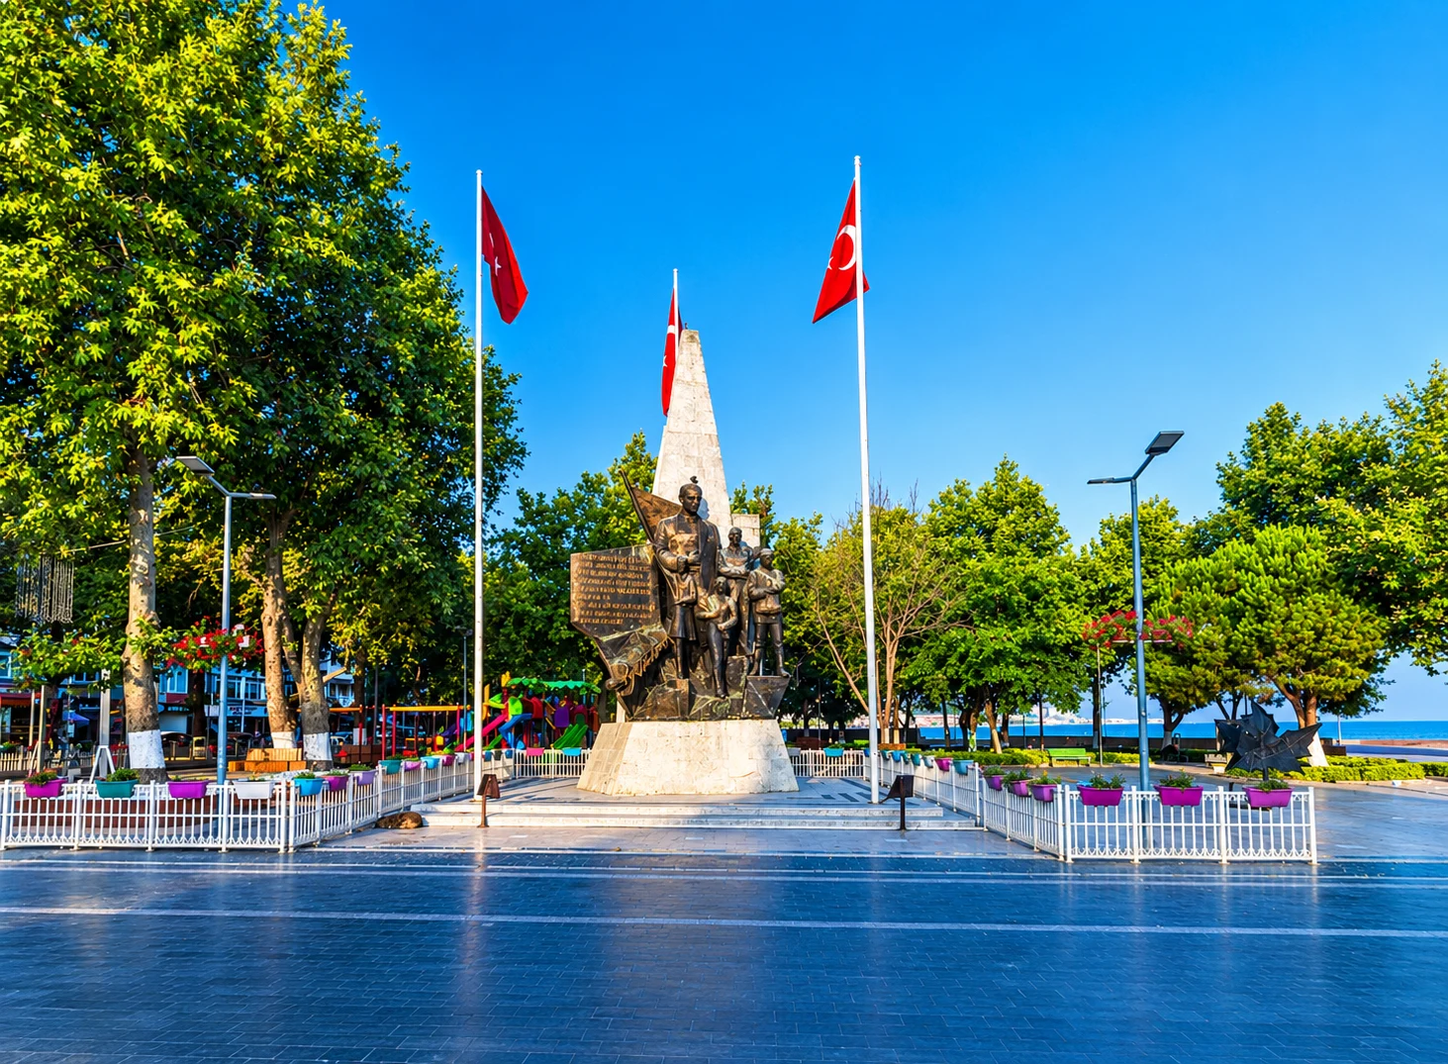
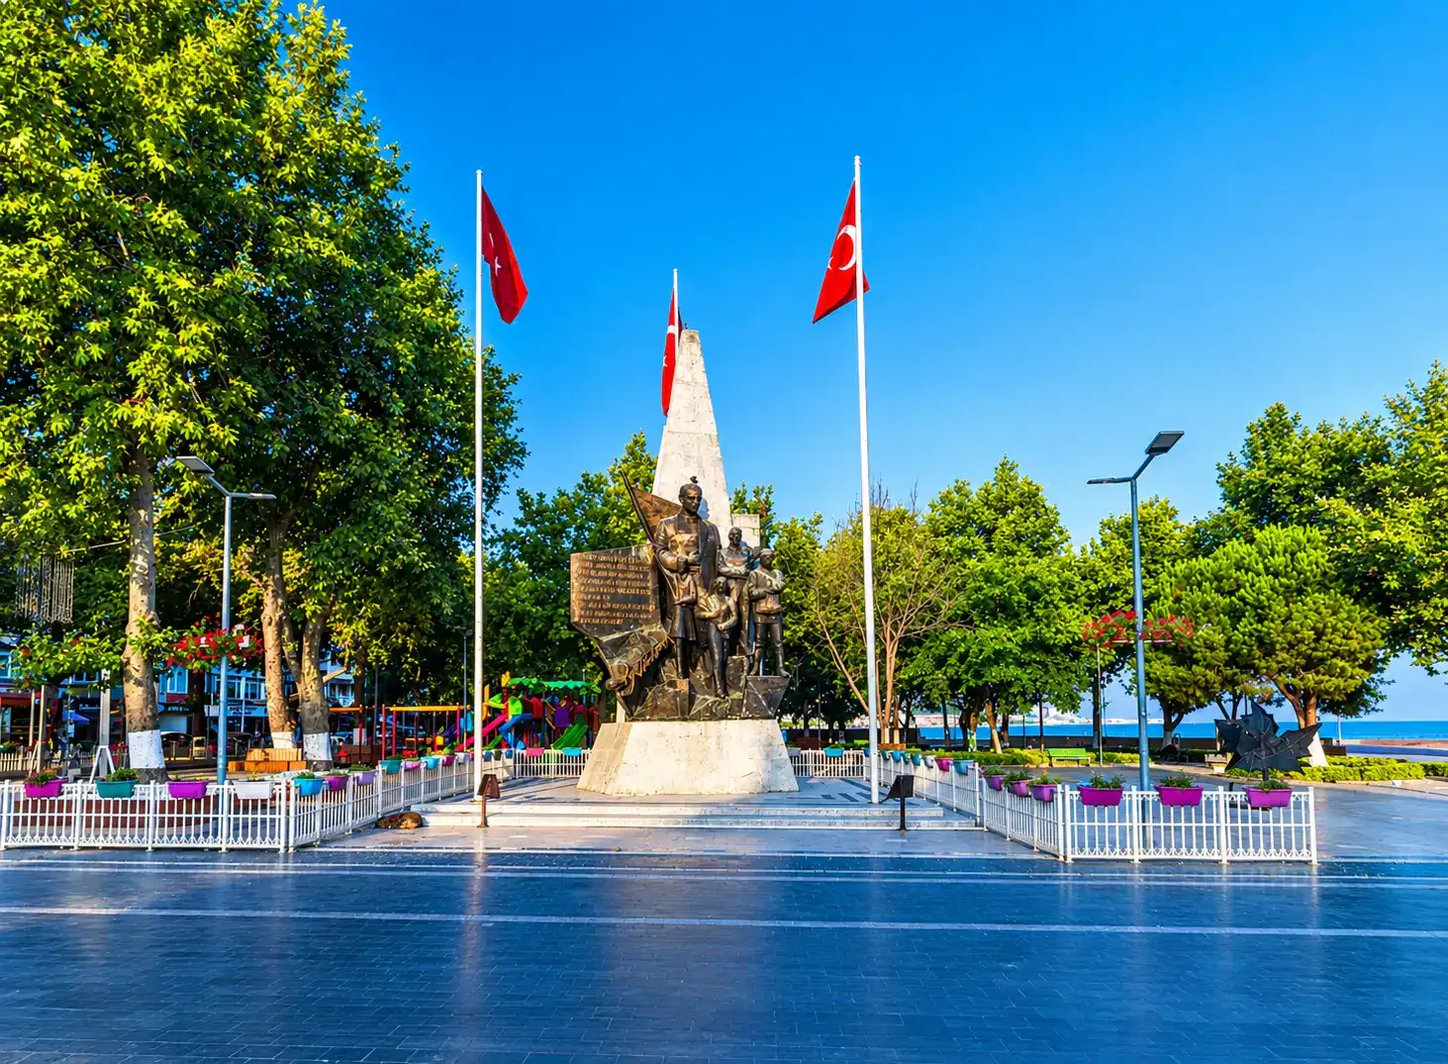
Perf optimizasyonu + Google OAuth callback fix + hero metin duzeltmesi
- Hero gorselleri sikistirildi (images/cinar/1-5.webp, ~1.4MB -> ~666KB)

- Upload'a sharp pipeline: max 1600px, WebP q70 (optimizeUploadedImages)

- Font tekillestirme: 9 view'dan @import kaldirildi, layout Inter(400-900)+Poppins tek kaynak

- LCP preload: hero 1. slayt + manset gorseli head'de preload (preloadImages)

- Lazy loading: 11 view'da loading=lazy; manset/hero/detay ana gorselleri eager

- Encoding bozulmasi onarildi (PS ANSI okuma -> 5 view git checkout + edit ile yeniden uygulandi, byte dogrulamasi)

- Google OAuth: redirect_uri artik istek host'undan dinamik (canlida localhost'a dusme fix); token exchange ayni kaynak

- i18n: heroSlide2Sub Meydaninizda -> Meydanimizda (TR)

- AGENTS guncel (bekleyen deploy + OAuth notu); GBP_LOCATION_ID .env'e eklendi (gitignore'lu)

diff --git a/server.js b/server.js
@@ -504,6 +504,10 @@ app.get('/', async (req, res) => {
   res.render('home', {
     announcements, places, companies, pharmacies, sightseeing, ferryGroups: buildFerryGroups(ferryRows),
     headlines, regularNews, weekEvents, sea,
+    // LCP: hero 1. slayt + manşet ilk görseli <head>'de preload edilir (layout.ejs)
+    preloadImages: ['/images/cinar/1.webp'].concat(
+      headlines[0] && headlines[0].main_image_url && String(headlines[0].main_image_url).indexOf('/uploads/') === 0
+        ? [res.locals.img(headlines[0].main_image_url)] : []),
     pageTitle: 'Çınarcık Haber, Mekan ve Gezi Rehberi | ' + i18n.t(req.lang, 'heroTagline'),
     metaDescription: i18n.t(req.lang, 'metaDesc'),
     pageSchema: {
@@ -1706,11 +1710,53 @@ function finishUploads(req, res, done) {
   });
 }
 
+// Yüklenen fotoğrafları R2'ye gitmeden önce küçültür: max 1600px + WebP q70.
+// Orijinal (telefon) fotoğraflar 2-8 MB olabiliyordu — LCP ve bandwidth için en
+// büyük kazanç bu. Hata olursa dosya olduğu gibi yüklenir (akış bozulmaz).
+async function optimizeUploadedImages(req) {
+  const files = [];
+  if (req.file) files.push(req.file);
+  if (req.files) {
+    if (Array.isArray(req.files)) files.push.apply(files, req.files);
+    else Object.keys(req.files).forEach(function(k) {
+      const v = req.files[k];
+      if (Array.isArray(v)) files.push.apply(files, v);
+    });
+  }
+  const fsp = require('fs');
+  const sharp = require('sharp');
+  await Promise.all(files.map(async function(file) {
+    if (!file || !file.path || !/^image\/(jpeg|png|webp)$/.test(file.mimetype || '')) return;
+    try {
+      const before = fsp.statSync(file.path).size;
+      const out = await sharp(file.path)
+        .resize({ width: 1600, withoutEnlargement: true })
+        .webp({ quality: 70, smartSubsample: true })
+        .toBuffer();
+      if (out.length >= before) return; // küçülmediyse dokunma
+      const newPath = file.path.replace(/\.[A-Za-z0-9]+$/, '') + '.webp';
+      fsp.writeFileSync(newPath, out);
+      if (newPath !== file.path) { try { fsp.unlinkSync(file.path); } catch (e) {} }
+      file.path = newPath;
+      file.filename = require('path').basename(newPath);
+      file.mimetype = 'image/webp';
+      console.log('[img] optimize:', file.filename, Math.round(before / 1024) + 'KB -> ' + Math.round(out.length / 1024) + 'KB');
+    } catch (e) {
+      console.warn('[img] optimize atlandi (' + file.filename + '):', e.message);
+    }
+  }));
+}
+
 function withUpload(mw) {
   return function(req, res, next) {
     mw(req, res, function(err) {
       if (err) return next(err);
-      finishUploads(req, res, next);
+      optimizeUploadedImages(req).then(function() {
+        finishUploads(req, res, next);
+      }).catch(function(e) {
+        console.warn('[img] optimize hata:', e.message);
+        finishUploads(req, res, next);
+      });
     });
   };
 }
@@ -2361,7 +2407,24 @@ app.post('/admin/firmalar/:id/goruntulenme-sifirla', isAuthenticated, (req, res)
 
 const GOOGLE_CLIENT_ID = process.env.GOOGLE_CLIENT_ID;
 const GOOGLE_CLIENT_SECRET = process.env.GOOGLE_CLIENT_SECRET;
-const GOOGLE_CALLBACK_URL = process.env.GOOGLE_CALLBACK_URL || 'http://localhost:3000/auth/google/callback';
+
+// redirect_uri istek host'undan dinamik üretilir: istek localhost'a gelirse
+// http://localhost:3000, canlı domain'e gelirse SITE_URL (veya localhost OLMAYAN
+// GOOGLE_CALLBACK_URL env override'ı) kullanılır.
+// DİKKAT: Google Cloud Console → Authorized redirect URIs içinde şunlar ekli OLMALI:
+//   http://localhost:3000/auth/google/callback   (lokal test)
+//   https://marmaraninincisi.com/auth/google/callback  (canlı)
+// Eski hata: .env'deki GOOGLE_CALLBACK_URL=localhost'a sabitti → canlıda Google
+// girişi yapan herkes localhost:3000'e düşüyordu (ERR_CONNECTION_REFUSED).
+function googleRedirectUri(req) {
+  const host = String((req.get('host') || '')).toLowerCase().split(':')[0];
+  if (host === 'localhost' || host === '127.0.0.1') {
+    return 'http://localhost:3000/auth/google/callback';
+  }
+  const envCb = process.env.GOOGLE_CALLBACK_URL;
+  if (envCb && !envCb.includes('localhost')) return envCb.replace(/\/+$/, '');
+  return (process.env.SITE_URL || 'https://marmaraninincisi.com').replace(/\/+$/, '') + '/auth/google/callback';
+}
 
 // Env değişken kontrolü
 if (!GOOGLE_CLIENT_ID || GOOGLE_CLIENT_ID === 'YOUR_GOOGLE_CLIENT_ID.apps.googleusercontent.com') {
@@ -2375,24 +2438,13 @@ if (!GOOGLE_CLIENT_SECRET || GOOGLE_CLIENT_SECRET === 'YOUR_GOOGLE_CLIENT_SECRET
 } else {
   console.log('\x1b[32m✓ GOOGLE_CLIENT_SECRET yüklendi.\x1b[0m');
 }
-console.log('\x1b[36m→ GOOGLE_CALLBACK_URL:\x1b[0m', GOOGLE_CALLBACK_URL);
+console.log('\x1b[36m→ Google callback (dinamik):\x1b[0m');
+console.log('   lokal : http://localhost:3000/auth/google/callback');
+console.log('   canlı : ' + (process.env.GOOGLE_CALLBACK_URL && !process.env.GOOGLE_CALLBACK_URL.includes('localhost')
+  ? process.env.GOOGLE_CALLBACK_URL
+  : (process.env.SITE_URL || 'https://marmaraninincisi.com').replace(/\/+$/, '') + '/auth/google/callback'));
 
-// Alan adı uyuşmazlığı koruması: callback URL, SITE_URL alan adıyla aynı olmalı.
-// Farklıysa Google girişi sonrası kullanıcı geçersiz/eksik SSL'li domain'e
-// yönlendirilir → tarayıcı "This connection is not private" uyarısı gösterir.
-(function validateCallbackHost() {
-  try {
-    const siteHost = new URL(process.env.SITE_URL || 'https://marmaraninincisi.com').host;
-    const cbHost = new URL(GOOGLE_CALLBACK_URL).host;
-    if (cbHost !== siteHost && cbHost !== 'localhost:3000' && cbHost !== 'localhost') {
-      console.warn('\x1b[31m✗ GOOGLE_CALLBACK_URL alan adı SITE_URL ile uyuşmuyor!\x1b[0m');
-      console.warn('   SITE_URL host:    ' + siteHost);
-      console.warn('   CALLBACK host:    ' + cbHost);
-      console.warn('   → Google girişi "This connection is not private" hatası verir.');
-      console.warn('   → Render env: GOOGLE_CALLBACK_URL=https://' + siteHost + '/auth/google/callback');
-    }
-  } catch (e) { /* geçersiz URL — üstteki log yeterli */ }
-})();
+// (Eski statik callback-host doğrulaması kaldırıldı — redirect_uri artık isteğe göre dinamik.)
 
 // Auth config endpoint
 app.get('/api/auth/config', (req, res) => {
@@ -2420,7 +2472,7 @@ app.get('/auth/google', (req, res) => {
   if (returnTo) req.session.returnTo = returnTo;
   const params = new URLSearchParams({
     client_id: GOOGLE_CLIENT_ID,
-    redirect_uri: GOOGLE_CALLBACK_URL,
+    redirect_uri: googleRedirectUri(req),
     response_type: 'code',
     scope: 'openid email profile',
     access_type: 'offline',
@@ -2450,7 +2502,7 @@ app.get('/auth/google/callback', async (req, res) => {
         code,
         client_id: GOOGLE_CLIENT_ID,
         client_secret: GOOGLE_CLIENT_SECRET,
-        redirect_uri: GOOGLE_CALLBACK_URL,
+        redirect_uri: googleRedirectUri(req),
         grant_type: 'authorization_code'
       })
     });
@@ -2459,7 +2511,7 @@ app.get('/auth/google/callback', async (req, res) => {
     
     if (tokenData.error) {
       console.error('Token hatası:', tokenData.error, tokenData.error_description);
-      console.error('Gönderilen parametreler: client_id=' + GOOGLE_CLIENT_ID.substring(0, 15) + '..., redirect_uri=' + GOOGLE_CALLBACK_URL);
+      console.error('Gönderilen parametreler: client_id=' + GOOGLE_CLIENT_ID.substring(0, 15) + '..., redirect_uri=' + googleRedirectUri(req));
       return res.redirect('/auth/error?type=' + encodeURIComponent(tokenData.error) + '&desc=' + encodeURIComponent(tokenData.error_description || ''));
     }
     

diff --git a/i18n.js b/i18n.js
@@ -17,7 +17,7 @@ const translations = {
     forecastReal: 'gerçek tahmin', forecastHist: 'tarihsel ortalama',
     heroTagline: "Marmara'nın Huzurlu Kıyısı",
     heroSlide1Title: 'Kuşbakışı Çınarcık', heroSlide1Sub: "Marmara'nın mavisiyle buluşan sahil kasabası",
-    heroSlide2Title: 'Cumhuriyet Meydanı', heroSlide2Sub: 'Meydanınızda Atatürk Anıtımız',
+    heroSlide2Title: 'Cumhuriyet Meydanı', heroSlide2Sub: 'Meydanımızda Atatürk Anıtımız',
     heroSlide3Title: "Marmara'nın İncisi", heroSlide3Sub: 'Sahil meydanı ve simge yapılar',
     heroSlide4Title: 'Sahil Boyunca', heroSlide4Sub: 'Sakin deniz, yeşil tepeler ve huzur',
     heroSlide5Title: 'Çınarcık Feneri', heroSlide5Sub: 'Sahilin simgesi şirin fener',

diff --git a/AGENTS.md b/AGENTS.md
@@ -9,10 +9,10 @@
 - İletişim dili: Türkçe. commit/push sadece kullanıcı açıkça isteyince; commit mesajları ASCII.
 - Görsel deposu: Cloudflare R2 aktif (`uploads/` key'leri; local mirror yükleme sonrası silinir). DB'de URL'ler hep göreli: `/uploads/x` (R2) veya `/img/uploads/x` (lokal fallback). `/uploads/*` yanıt başlığı `Cache-Control: public, max-age=31536000, immutable` → **Cloudflare edge cache MISS→HIT doğrulandı** (görseller origin'e gelmiyor).
 
-## Bekleyen deploy — YÜKLENMEDİ (zip hazır) — yükleme yapınca bu bölümü SİL
-- **Durum (20 Eki):** commit/push tamam, henüz cPanel'e yüklenmedi. Kullanıcı "en son yapılacaklar bitince toplu upload" diyor.
-- **Zip:** `%TEMP%\opencode\cinarcik-deploy.zip` (12.36 MB; `52ed83b` itibarıyla güncel, package.json değişmedi → NPM Install yok). Yeni iş girerse yeniden üret.
-- **İçerik:** `dd6395e` Ctrl+K arama + favoriler (Kaydettiklerim) + scroll-reveal · `7b70d82` docs · `b61f895` arama panelinde Kaydettiklerim satırlarına ✕ kaldır butonu · `52ed83b` ilan/duyuru kart görselleri `object-cover`.
+## Bekleyen deploy — YÜKLENMEDİ — yükleme yapınca bu bölümü SİL
+- **Durum (20 Eki akşam):** yeni commit push edildi, henüz cPanel'e yüklenmedi. Kullanıcı "en son yapılacaklar bitince toplu upload" diyor.
+- **Zip:** bu commit'ten sonra `powershell -ExecutionPolicy Bypass -File scripts\prepare-deploy.ps1` ile yeniden üret (`%TEMP%\opencode\cinarcik-deploy.zip`); package.json değişmedi → NPM Install yok. Yükleme sonrası **STOP→START** (Restart yetmiyor) + CF Purge.
+- **İçerik:** `dd6395e` Ctrl+K arama + favoriler (Kaydettiklerim) + scroll-reveal · `7b70d82` docs · `b61f895` arama panelinde ✕ kaldır butonu · `52ed83b` ilan/duyuru kart görselleri `object-cover` · `a997158` pending-deploy notu + prepare-deploy.ps1 · **(bu commit)** performans optimizasyonu (hero sıkıştırma ~1.4→~0.66 MB, sharp upload pipeline, font tekilleştirme + @import temizliği, LCP preload, lazy loading) + encoding bozulması onarımı + Google OAuth dinamik callback fix + hero metin "Meydanımızda" + `.env`'e `GBP_LOCATION_ID` (gitignore'lu).
 - **Hazırlık tek komut:** `powershell -ExecutionPolicy Bypass -File scripts\prepare-deploy.ps1` (lint + node --check + zip; hata olursa zip üretilmez). Yükleme adımları §Genel'de.
 
 ## Kritik konvansiyonlar
@@ -26,6 +26,7 @@
 - `sightseeing`/`announcements` tablolarında `updated_at` YOK — SQL'lerinde kullanma.
 
 ## Tamamlananlar (özet — detay git log'da)
+- **20 Eki (Google OAuth callback fix):** kök neden — `.env`'deki `GOOGLE_CALLBACK_URL` `localhost:3000`'e sabitti; 16 Eki Spaceship taşınmasında aynı `.env` sunucuya gittiği için **canlıda Google girişi yapan herkes localhost'a düşüyordu** (ERR_CONNECTION_REFUSED). Çözüm: `server.js` `googleRedirectUri(req)` — istek host'u localhost/127.0.0.1 ise `http://localhost:3000/...`, aksi halde localhost OLMAYAN env override ya da `SITE_URL` + `/auth/google/callback`; token exchange de aynı fonksiyonu kullanır; eski statik host-doğrulama IIFE kaldırıldı. Lokal doğrulama: `/auth/google` 302 — localhost isteğinde `redirect_uri=http://localhost:3000/...`, `Host: marmaraninincisi.com` isteğinde `https://marmaraninincisi.com/auth/google/callback` ✓. **Kullanıcı görevi:** Google Cloud Console → OAuth Client → Authorized redirect URIs'a `https://marmaraninincisi.com/auth/google/callback` eklenmeli (yoksa `redirect_uri_mismatch`); lokal URI zaten kayıtlı. Lokal testte sunucu 3000'de açık olmalı (`node server.js`; PORT=3199 değil).
 - **20 Eki (arama + favoriler + mikro-animasyon, `dd6395e`):** (1) **Ctrl+K hızlı arama paneli** — `/api/search` (5 tablo: news/places/announcements/sightseeing/companies; `status='active'`, LIKE ESCAPE, tablo başına 4-3 sonuç, toplam 15; slug-aware URL), layout'ta modal (debounce 200ms, istemci cache 40 sorgu, ↑↓/Enter/ESC, boş sorguda favorileri öneri olarak listeler, favori sonuçlar başa ★ rozetiyle alınır), header'da 🔍 butonu; light modda da koyu panel (hava modalıyla aynı). (2) **Favoriler / Kaydettiklerim** — localStorage `cinarcik_favs_v1` (100 kayıt capi, giriş YOK); 5 detay sayfasında ♡ Kaydet butonu (`data-fav` delegation + `favs:changed` event); header ★ butonu (ilk kayıttan sonra görünür, adet rozeti); `/kaydettiklerim` (noindex, sitemap'te yok) + footer linki; `window.Favs` API (list/has/toggle/remove). (3) **Scroll-reveal mikro-animasyon** — `main .grid` çocukları IntersectionObserver ile (hero/slides hariç, `no-reveal` skip, reduced-motion skip, 3 sn safety-net; JS/reduced-motion'da içerik görünür); header butonlarında `:active` scale(0.96); fav kalp `fav-pop` animasyonu. Ek: 4 dilde i18n (search*/fav*), `npm run build:css` ile tailwind rebuild (z-[110], max-h-[60vh] vb.), mekan detayda öne çıkan rozet 🏆→⭐. Lokal uçtan uca test: API/rotalar/fav butonları/header sığdırma (desktop+mobil screenshot) ✓; `db/cinarcik.db` test artığıydı, commit öncesi HEAD'e döndürüldü.
 - **19 Eki (menü + harita pin/cid, hepsi canlıda):** (1) **Üst menü sığdırma** (`3ec0aa1`) — header+ticker `max-w-7xl`→`max-w-[90rem]`, linkler `px-2.5 xl:px-3 text-[13px] xl:text-sm whitespace-nowrap`, emoji'ler `xl:inline`, hamburger `md:hidden`→`lg:hidden` + mobil menü medya sorguları `1023.98px`; `npm run build:css` şart (Tailwind CLI). (2) **Tüm haritalar tek forma** (`db0176b`,`33449f1`,`86e80f6`,`cee1a76`) — iletişim/mechan/gezilecek yer/firma detayları Google keyless embed + altlarında "Google Haritada Aç →" bağlantısı; OSM embed tamamen kalktı, `buildMapEmbedUrl(coords)` tek kaynak; gezilecek yer detayına Harita kartı eklendi. (3) **Pin/cid düzeltmeleri** (`3478ac4`,`451c051`,`967bf47`) — kök nedenler: (a) `extractMapCoords` `@lat,lng` (görünüm merkezi) `!3d..!4d` (tam pin) yerine öncelikli okuyordu → sıralama değişti; (b) `?q=lat,lng&output=embed` Google'ın güncel sürümünde **pin basmıyor** (firma sayfasında kullanıcı raporu) → **yer kayıtlı** her şey için `?cid=<ondalık>&output=embed` (`extractPlaceCid` — place URL/pb'deki `!1s0x..:0x..` → BigInt ondalık; etiketli pin basar), **dropped pin** (koordinat linkleri, yer key'i yok) için klasik `maps.google.com/maps?q=..&hl=tr&z=17&output=embed`; firma rotası önce `map_link`'ten çözüyor, pb sadece fallback; yol tarifi `cid:` destination. İletişim kendi işletmemizin cid'sine (`14140722854821185587`) geçti. (4) **Veri fix** — 3 mekanın `map_link`'i kullanıcının verdiği gerçek yer linkleriyle güncellendi (`db.run`+`flushSync` script yolu, sunucu kapalıyken — aksi halde sunucunun saveDb'si ezer): Liman Restoran cid `16612906186740951125`, Butterfly cid `1532752234693097114` (eski linkleri zaten aynı yerdi), Ulaş Büfe Google'da kayıtlı değil (dropped pin, klasik embed). Lokal `db/cinarcik.db` M — bu veri fix'inin izi, gerekirse commit et. Zip (`scripts/deploy-spaceship.ps1`, 12.42 MB, package.json değişmedi → NPM Install yok) kullanıcıca Upload+Extract → STOP→START → CF Purge Everything ile canlıya alındı; **canlıda doğrulandı**: 6 sayfada embed'ler doğru, `/server.js`+`/db/cinarcik.db` 404, yeni style.css (menu kuralları) CF'te HIT, header/ticker `max-w-[90rem]` + `lg:hidden` HTML'de. **Not:** headless Edge Google Maps'i çizmiyor → pin doğrulaması gerçek tarayıcıda yapılır; `cid` embed HTML'i place adını içerir (statik doğrulama için yeterli).
 - **18 Eki (akşam — admin + görsel + OTP):** (1) **"Diğer Haberler" public'ten admin'e taşındı** — `/haberler` kategori butonu + trending section + filtre branch + sayfanın `/api/trending-news` fetch'i, `/haber/:slug` "recent" bölümü silindi; admin dashboard'a 🌐 "Diğer Haberler" sekmesi (lazy fetch + 🔄 Yenile); `/api/trending-news` herkese açık kaldı. `4751768`. (2) **`/img/uploads/*` 404 fix** — kök neden: deploy script'i `public/img/uploads`'ı zip'ten siliyor + sunucuda bu yolu çeken route yok; DB'deki eski kayıtlar (mekan/duyuru/sightseeing) `/img/uploads/*` tutuyor, dosyalar R2'de `uploads/` altında. Çözüm: `/img/uploads/:file` rotası (`serveUploadByName` — R2 → local fallback, `/uploads/:file` ile ortak). `34c768c` — canlıda görseller doğrulandı. (3) **Admin OTP 500 fix** — `FileSessionStore` (95cf9fe) express-session base `Store`'ından türememişti → `createSession`/`regenerate` metotları yok → OTP POST'unda TypeError → 500 "Internal Server Error". `Store`'dan türetildi (`6fb09ff`); lokalde tam OTP akışı test edildi (302 → `/admin?msg=...` + `admin_rt` cookie). (4) **Duyuru yayında/gizli toggle** — İşlemler sütununda ⛔/▶ butonu (`POST /admin/duyurular/toggle/:id`, flash `/admin?tab=announcements`), Durum rozetleri `🟢 Aktif`/`🔴 Pasif`/`⏳ Onay Bekliyor`; pending satırlarda toggle yok (önce onay/red). `590ae2c` — lokal uçtan uca test + canlıda kullanıcı doğrulaması ✓. Hepsi bugün 3 zip ile deploy edildi (kullanıcı: Upload+Extract → STOP→START). **Test yordamı (admin rotaları):** en kolay yol `admin_rt` remember-token sahtelemek (HMAC-SHA256, session store'a dokunmaz, `isAuthenticated`'ın regenerate yolunu da test eder); `data/sessions.json` sahtesi gerekiyorsa sunucu **açılmadan** yazılmalı (store dosyayı construct'te yükler); `PORT=3199` shell'e export edilmeli; PowerShell `node -e` içinde `$`/backtick kaçışları bozuyor → geçici `.js` dosyası yazıp çalıştırmak daha güvenli.
@@ -58,7 +59,7 @@
 6. ~~Opsiyonel: R2 orphan süpürme~~ ✅ 14 Eki'de elle yapıldı (script commit edilmedi, gerekirse yeniden yazılır); `content_translations` hash-cache süpürmesi hâlâ opsiyonel.
 7. Render artık kullanılmıyor (16 Eki taşınma sonrası). SMTP portlarıyla ilgili eski Render kısıtı artık geçersiz; Spaceship'te SMTP açık olsa da kodda Brevo HTTP API öncelikli — olduğu gibi kalsın. Lokal eski kodlu instance Turso'ya eski veri basabilir — lokal sunucu yeni koddan restart edilmeli.
 8. ~~Mekan/gezilecek yer/duyuru detayları id tabanlı~~ ✅ 15 Eki: `announcements` + `sightseeing` tablolarına `slug` kolonu (migration + backfill), rotalar `slug = ? OR id = ?` + id'den **301** redirect, view linkleri/JSON-LD/sitemap slug'lı, admin + ilan-ver INSERT'lerinde slug üretimi. **JSON-LD çift kopya da temizlendi** (view'daki `locals.pageSchema` blokları silindi — tek kaynak route'lardaki `pageSchema`); robots.txt + 404 status zaten doğruydu. **IndexNow** eklendi: `pingIndexNow()` (server.js) haber/duyuru/mekan/gezilecek-yer/firma ekle-düzenle + ilan onayında anında Bing/Yandex/Naver'a bildirir; anahtar `public/08ce8c9e17193c10a9078706e0e017a2.txt`.
-9. **Kod dışı görünürlük işleri:** ~~Google Business Profile~~ ✅ 15 Eki: profil tanımı yapıldı (posta kartı PIN doğrulaması bekleniyor; kart gelince PIN girilip profil tamamlanacak — açıklama, foto, haftalık gönderi). ~~session store'u diske taşıma~~ ✅ `session-store.js` dosya store (95cf9fe) + OTP 500 fix (`6fb09ff`, base Store'dan türretme) + admin 90 gün `admin_rt` remember cookie — restart'ta 2FA/admin oturumu düşmüyor; `data/` git + deploy zip'i dışında. Kalan opsiyonel: CSP'yi allowlist ile kademeli açma. Bing Webmaster'a gerek kalmadı (IndexNow).
+9. **Kod dışı görünürlük işleri:** ~~Google Business Profile~~ ✅ 15 Eki profil tanımı + **20 Eki PIN doğrulama tamam** — konum ID'si geldi (`1397943680537367655`), `.env`'e `GBP_LOCATION_ID` olarak eklendi (`.gitignore`'da, zip `.env`'i taşıdığı için sunucuya da gider). **Bu Maps CID'i DEĞİL** — embed'de boş döner; harita embed'lerindeki kayıtlı CID `14140722854821185587` (contact.ejs, "marmaraninincisi.com, Harmanlar") **dokunulmayacak**. Kullanım alanı ileride GBP API (haftalık gönderi vb.); profil içeriği (açıklama, foto, gönderi) hâlâ GBP dashboard'dan tamamlanacak. ~~session store'u diske taşıma~~ ✅ `session-store.js` dosya store (95cf9fe) + OTP 500 fix (`6fb09ff`, base Store'dan türretme) + admin 90 gün `admin_rt` remember cookie — restart'ta 2FA/admin oturumu düşmüyor; `data/` git + deploy zip'i dışında. Kalan opsiyonel: CSP'yi allowlist ile kademeli açma. Bing Webmaster'a gerek kalmadı (IndexNow).
 10. **Yarın için küçük notlar:** (a) `db/cinarcik.db` lokalde kirli (test koşularından `page_views` satırları) — gerekirse commit öncesi `git checkout -- db/cinarcik.db` veya commit et; Turso canlı taraf, lokal db'yi ezme. (b) Opsiyonel veri temizliği: news id27 başlığı `"Görünmez Kaza "` sondaki boşluklu. (c) Edge headless ile sayfa render testi yordamı yukarıda (15 Eki akşam maddesi) — yeni slider/UI işlerinde görsel doğrulama için kullan. (d) Firma rehberi kartlarındaki logo kutuları bilerek koyu bırakıldı (light mode) — kullanıcı isterse açığa çevrilebilir.
 11. **Taşınma sonrası opsiyonel:** (a) ~~Render hesabını/servisini sil~~ ✅ 16 Eki: kullanıcı hesabı sildi — taşınma artıklarının kapanışı tamam. (b) Deploy'u kolaylaştırmak istenirse SSH key + `git pull` script'i yazılabilir (şu an manuel zip). (c) Spaceship trial 15 Kasımda yenilenir ($19.88/yıl) — iptal edilecekse 14 Kasım'dan önce karar ver. (d) ~~`render.yaml`~~ ✅ 16 Eki: `render.yaml` + `keep-awake.yml` repo'dan silindi (hiçbir bağımlılık yok; dokümanlar güncellendi).
 12. ~~GÜVENLİK — açık kalanlar (16 Eki)~~ ✅ 16 Eki akşam: `.htaccess`'li zip sunucuya yüklendi + Docroot düzeltildi (Domains → `marmaraninincisi.com` → `/home/svclrphtsu/marmaraninincisi.com`; yanlış extract bir ara docroot'u home'a kaydırmıştı). Doğrulama: `/server.js`, `/db/cinarcik.db`, `/node_modules/*`, `*.log` → 404; `.env` → 403; tüm public sayfalar 200. **Deploy sonrası Passenger kopması (KRİTİK DERS):** zip Extract + restart her seferinde Passenger'ın domain bağını koparıyor → site "Index of /" (Apache statik) gösterir. Çözüm: Node.js App → STOP → START (Restart yetmiyor). Ayrıca: cPanel'de Application root alanına TAM YOL yazma ("already used" hatası). **i18n query bug fix** (`server.js`): `/en?utm=...` gibi query'li dil rotaları 500 veriyordu (req.url query'siz kesiliyordu → req.path null → robotsMeta satırı patlıyordu); query korunacak şekilde düzeltildi.
